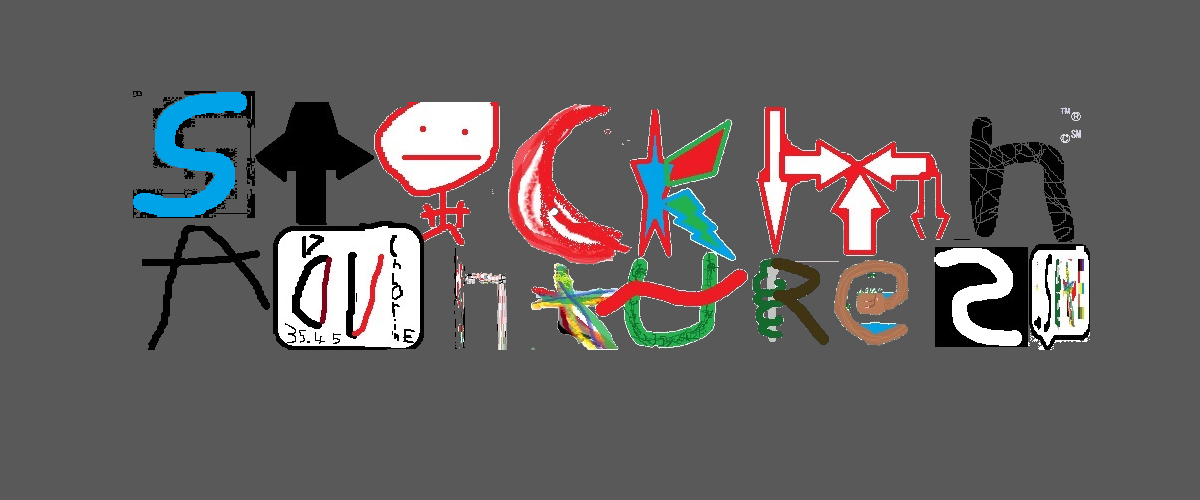
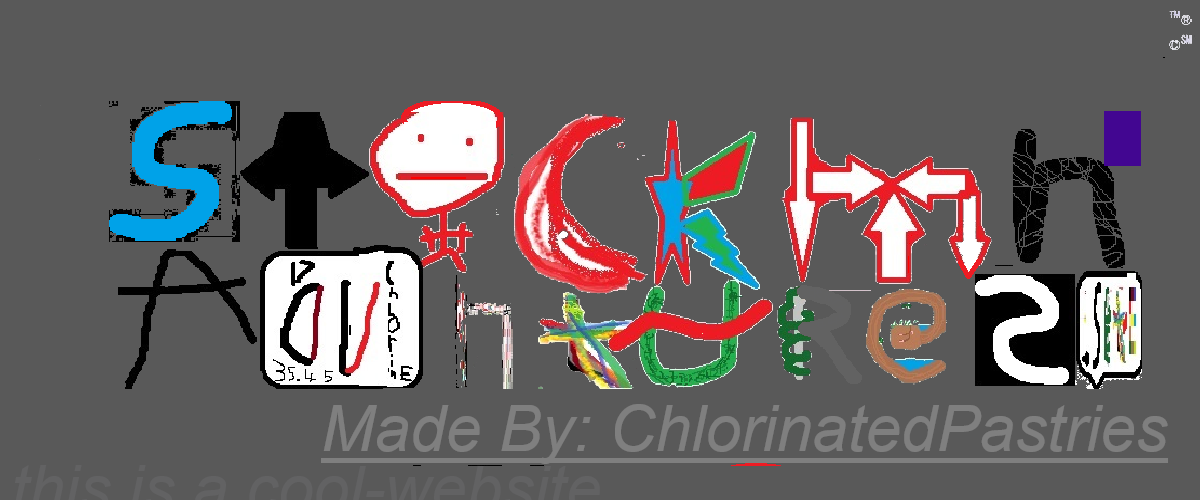
more main img updates
more main image updates

Changed region(s): [[0.0925, 0.18, 0.9558, 0.78], [0.2467, 0.81, 0.9867, 0.93], [0.9867, 0.03, 1.0, 0.09]]

diff --git a/extras/more/imgs.htm b/extras/more/imgs.htm
@@ -19,6 +19,36 @@
    <li><a  style="color:#50c5e9"  href="/proxys.htm">PROXYS</a></li>
     </ul>
   </div>
-
+ 
+  <DIV>
+    <img src="/images/gerafics/0ololool.png">
+    <img src="/images/gerafics/madewithcode.png">
+    <img src="/images/gerafics/Screenshot 2024-11-02 205217.png">
+    <img src="">
+    <img src="">
+    <img src="">
+    <img src="">
+    <img src="">
+     </div>
+<DIV>
+<img src="">
+<img src="">
+<img src="">
+<img src="">
+<img src="">
+<img src="">
+<img src="">
+<img src="">
+ </div>
+ <DIV>
+  <img src="">
+  <img src="">
+  <img src="">
+  <img src="">
+  <img src="">
+  <img src="">
+  <img src="">
+  <img src="">
+   </div>
   </body>
 </html>
